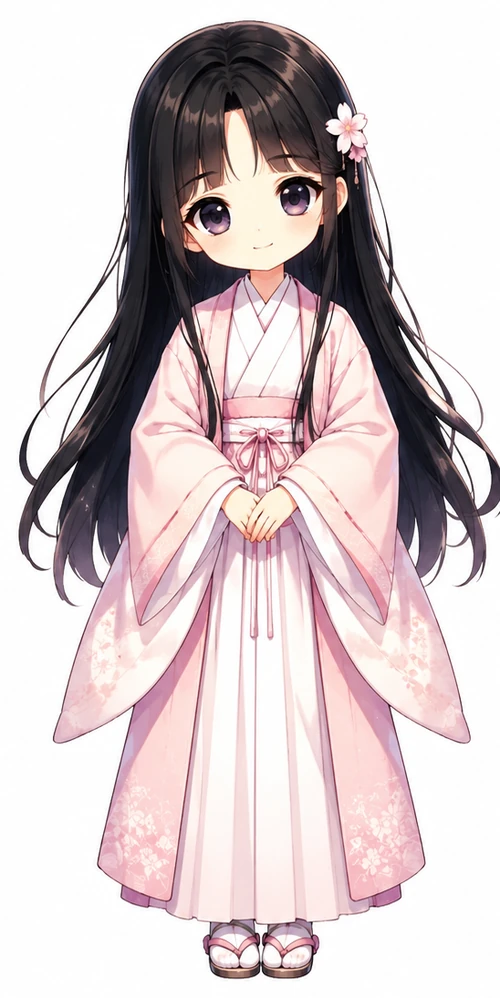
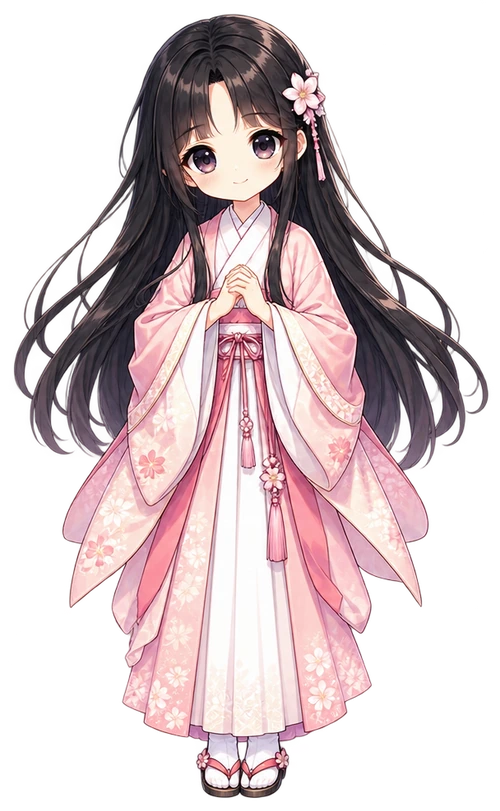
Add files via upload

diff --git a/script.js b/script.js
@@ -38,7 +38,7 @@ function getRowColorVars(difficulty) {
 }
 
 // PATTERNSはもう色を持たない。PATTERN_SOURCEをそのまま使う。
-//getRandomPatterns(PATTERN_SOURCE, PATTERN_SELECT_COUNT)
+// const PATTERNS = PATTERN_SOURCE;
 
 // ---------------------------------------------------------------------
 // 【問題データ】盤面の生成・正誤判定にだけ使う最小限のデータ。
@@ -68,8 +68,6 @@ const PATTERN_SOURCE = [
   { id: "ru-jido",     name: "受身・自発の助動詞「る」",   forms: ["れ", "れ", "る", "るる", "るれ", "れよ"] },
   { id: "sasu-shieki", name: "使役の助動詞「さす」",       forms: ["させ", "させ", "さす", "さする", "さすれ", "させよ"] },
 ];
-
-
 
 // ---------------------------------------------------------------------
 // 【解説データ】学習メモモーダルの表示にだけ使うデータ。パズルの正誤判定には一切関与しない。
@@ -213,8 +211,6 @@ const JODOUSHI_EXPLANATIONS = {
   },
 };
 
-
-
 // 問題データ(pattern)から解説データを引くヘルパー。
 // 将来モジュールが増えた場合は、ここで対象レジストリを切り替える形で拡張する想定。
 function getExplanation(pattern) {
@@ -345,16 +341,6 @@ function savePlayerData() {
   } catch (e) {
     console.error("[雅ラン] セーブデータの保存に失敗しました。", e);
   }
-}
-
-function resetPlayerData() {
-  localStorage.removeItem(SAVE_KEY);
-
-  playerData = createDefaultPlayerData();
-
-  renderCharacterHud();
-
-  showScreen("screen-character-select");
 }
 
 let playerData = createDefaultPlayerData();
@@ -492,7 +478,7 @@ function formatTime(totalSeconds) {
 // クラスの付け外しだけでなく、style.displayも直接書き換えることで
 // 「CSSの読み込みタイミングやクラス指定ミスで画面が重なって表示される」
 // 事故を確実に防ぐ（インラインstyleは外部CSSより優先されるため）。
-const SCREEN_IDS = ["screen-character-select", "screen-title", "screen-game", "screen-clear"];
+const SCREEN_IDS = ["screen-brand-title", "screen-character-select", "screen-title", "screen-game", "screen-clear"];
 
 function showScreen(activeId) {
   SCREEN_IDS.forEach((id) => {
@@ -513,7 +499,7 @@ function showScreen(activeId) {
   // 要件①②：ゲーム開始時（screen-game表示時）・タイトルへ戻った時（screen-title表示時）は、
   // 前の画面で出ていた完成メッセージ（活用表完成！など）を必ずリセットする。
   // ここに集約しておくことで、「戻る」ボタンがどこにあっても・今後増えても取りこぼさない。
-  if (activeId === "screen-title" || activeId === "screen-game") {
+  if (activeId === "screen-brand-title" || activeId === "screen-title" || activeId === "screen-game") {
     clearCompletionMessage();
   }
 }
@@ -608,7 +594,7 @@ function startGame(difficulty) {
   // PATTERNS（全助動詞データ）からランダムにPATTERN_SELECT_COUNT種類、重複なしで抽出する
   // ここが要件のコア部分：
   //   const selectedPatterns = getRandomPatterns(PATTERNS, 6);
-  const selectedPatterns =
+ const selectedPatterns =
   getRandomPatterns(PATTERN_SOURCE, PATTERN_SELECT_COUNT);
 
   state.difficulty = difficulty;
@@ -1393,14 +1379,25 @@ function spawnSakura() {
    ------------------------------------------------------------------------ */
 
 function init() {
-  // ① 起動時はプレイヤーデータを読み込み、キャラクター選択済みかどうかで
-  //    最初に見せる画面を振り分ける（選択済みならキャラクター選択画面はスキップする）。
-  //    HTML側のclass指定に頼らず、ここで明示的に状態を確定させる。
+  // ①②③ 新しい画面遷移：
+  //   起動 → ブランドタイトル画面（常に最初に表示）
+  //        → 「はじめる」を押す
+  //          → 未選択なら：キャラクター選択（初回のみ）→ 通常のタイトル画面（難易度選択）
+  //          → 選択済みなら：そのまま通常のタイトル画面（難易度選択）
+  // キャラクター選択自体は「はじめる」を押した後に限り、未選択の場合だけスキップせず表示する。
   playerData = loadPlayerData();
   renderCharacterHud();
-  showScreen(playerData.characterType ? "screen-title" : "screen-character-select");
+  showScreen("screen-brand-title");
 
   spawnSakura();
+
+  // ブランドタイトル画面：「はじめる」ボタン
+  const startBtn = document.getElementById("btn-start");
+  if (startBtn) {
+    startBtn.addEventListener("click", () => {
+      showScreen(playerData.characterType ? "screen-title" : "screen-character-select");
+    });
+  }
 
   // ⓪ キャラクター選択カード：選んだ瞬間に保存し、以降ずっとそのキャラクターで表示される
   const characterCards = document.querySelectorAll(".character-select-card");
@@ -1479,17 +1476,6 @@ function init() {
       closeLevelUpOverlay();
     });
   }
-}
-
-// ⑧ データリセット
-const resetBtn = document.getElementById("btn-reset-data");
-
-if (resetBtn) {
-  resetBtn.addEventListener("click", () => {
-    if (confirm("セーブデータを削除しますか？")) {
-      resetPlayerData();
-    }
-  });
 }
 
 // スクリプトを</body>直前（DOM要素の後）に配置しているため、

diff --git a/index.html b/index.html
@@ -26,7 +26,7 @@
 <!-- ============================== -->
 <div id="character-hud" class="character-hud" aria-hidden="true">
   <div id="character-portrait" class="character-portrait" data-character="hime" data-expression="normal">
-    <img id="character-portrait-img" class="cp-img" src="character-hime.webp" alt="">
+    <img id="character-portrait-img" class="cp-img" src="assets/character-hime-face.webp" alt="">
     <div class="cp-sparkles" aria-hidden="true"></div>
   </div>
 
@@ -45,6 +45,20 @@
 <div id="app">
 
   <!-- ============================== -->
+  <!-- ブランドタイトル画面（起動時に必ず最初に表示） -->
+  <!-- ============================== -->
+  <section id="screen-brand-title" class="screen is-active">
+    <div class="title-panel washi-panel">
+      <p class="eyebrow">夜の平安 古典学習</p>
+      <h1 class="game-logo">雅<span>ラン</span></h1>
+      <p class="game-tagline">古文助動詞パズル</p>
+      <p class="game-sub">散らばった活用語を並べ替えて、古文助動詞の活用表を月明かりの下で完成させましょう。解けば解くほど、あなたの分身が宮中で出世していきます。</p>
+
+      <button id="btn-start" class="primary-btn start-btn">はじめる</button>
+    </div>
+  </section>
+
+  <!-- ============================== -->
   <!-- ⓪ キャラクター選択画面（初回のみ／未選択時のみ表示） -->
   <!-- ============================== -->
   <section id="screen-character-select" class="screen">
@@ -56,14 +70,14 @@
       <div class="character-select-grid">
         <button class="character-select-card" data-character="hime">
           <span class="character-select-portrait" data-character-preview="hime" aria-hidden="true">
-            <img src="character-hime.webp" alt="">
+            <img src="assets/character-hime.webp" alt="">
           </span>
           <span class="character-select-name">姫</span>
           <span class="character-select-desc">雅やかに、着実に出世する</span>
         </button>
         <button class="character-select-card" data-character="kokushi">
           <span class="character-select-portrait" data-character-preview="kokushi" aria-hidden="true">
-            <img src="character-kokushi.webp" alt="">
+            <img src="assets/character-kokushi.webp" alt="">
           </span>
           <span class="character-select-name">貴公子</span>
           <span class="character-select-desc">凛として、宮中を歩む</span>
@@ -75,13 +89,12 @@
   </section>
 
   <!-- ============================== -->
-  <!-- ① タイトル画面（難易度選択）      -->
+  <!-- ① タイトル画面（通常のタイトル画面／難易度選択）      -->
   <!-- ============================== -->
   <section id="screen-title" class="screen">
     <div class="title-panel washi-panel">
-      <p class="eyebrow">夜の平安 古典学習</p>
-      <h1 class="game-logo">雅<span>ラン</span></h1>
-      <p class="game-sub">散らばった活用語を並べ替えて、古文助動詞の活用表を月明かりの下で完成させましょう。</p>
+      <p class="eyebrow">修行の間</p>
+      <h2 class="mode-select-title">難易度を選ぶ</h2>
 
       <div class="difficulty-select">
         <button class="diff-btn" data-difficulty="beginner">
@@ -97,10 +110,6 @@
           <span class="diff-desc">色ヒントなし・ダミーマス混入</span>
         </button>
       </div>
-
-      <button id="btn-reset-data" class="menu-btn">
-        データリセット
-      </button>
 
       <p class="rule-hint">マスをタップして2つ選ぶと入れ替わります。指で直接ドラッグしての入れ替えにも対応。</p>
     </div>
@@ -230,7 +239,7 @@
 <div id="levelup-modal" class="modal-overlay">
   <div class="levelup-card">
     <div id="levelup-portrait" class="character-portrait levelup-portrait" data-character="hime" data-expression="celebrate">
-      <img id="levelup-portrait-img" class="cp-img" src="character-hime.webp" alt="">
+      <img id="levelup-portrait-img" class="cp-img" src="assets/character-hime.webp" alt="">
       <div class="cp-sparkles" aria-hidden="true"></div>
     </div>
 

diff --git a/style.css b/style.css
@@ -275,11 +275,35 @@ button{ font-family: inherit; }
 }
 .game-logo span{ color: var(--vermillion); }
 
+.game-tagline{
+  font-family: "Shippori Mincho", serif;
+  font-size: 0.92rem;
+  letter-spacing: 0.12em;
+  color: var(--indigo);
+  margin: 0 0 14px;
+}
+
 .game-sub{
   color: var(--ink-soft);
   font-size: 0.88rem;
   line-height:1.8;
   margin: 0 0 28px;
+}
+
+/* ブランドタイトル画面の「はじめる」ボタン：主導線なので少し大きめ・目立たせる */
+.start-btn{
+  font-size: 1.05rem;
+  padding: 15px 46px;
+  letter-spacing: 0.2em;
+}
+
+/* 通常のタイトル画面（難易度選択）の見出し。ブランド画面より控えめなサイズにする */
+.mode-select-title{
+  font-family: "Shippori Mincho", serif;
+  font-weight: 700;
+  font-size: clamp(1.3rem, 5vw, 1.6rem);
+  margin: 0 0 22px;
+  color: var(--ink);
 }
 
 .difficulty-select{
@@ -683,10 +707,12 @@ button{ font-family: inherit; }
   flex-direction: column;
   align-items: center;
   gap: 8px;
-  background: rgba(255,255,255,0.35);
+  background:
+    repeating-linear-gradient(45deg, transparent 0px, transparent 9px, rgba(122,106,74,0.05) 9px, rgba(122,106,74,0.05) 10px),
+    rgba(255,255,255,0.32);
   border: 1px solid var(--line);
   border-radius: 14px;
-  padding: 16px 10px;
+  padding: 16px 10px 14px;
   cursor: pointer;
   transition: transform 0.15s ease, box-shadow 0.15s ease, background 0.15s ease;
 }
@@ -695,16 +721,14 @@ button{ font-family: inherit; }
   box-shadow: 0 8px 20px -12px rgba(42,33,22,0.5);
   transform: translateY(-2px);
 }
+/* キャラクター立ち絵は透過PNG/WebPが前提。白い矩形の枠は置かず、
+   和紙パネルの上に直接立っているように、柔らかい落ち影だけで存在感を出す。 */
 .character-select-portrait{
-  width: 108px;
-  height: 148px;
+  width: 128px;
+  height: 176px;
   display: flex;
   align-items: flex-end;
   justify-content: center;
-  background: radial-gradient(circle at 50% 30%, rgba(255,255,255,0.5), rgba(255,255,255,0) 70%);
-  border-radius: 16px 16px 10px 10px;
-  border: 2px solid var(--gold);
-  overflow: hidden;
   position: relative;
 }
 .character-select-portrait img{
@@ -713,6 +737,7 @@ button{ font-family: inherit; }
   object-fit: contain;
   object-position: bottom center;
   display: block;
+  filter: drop-shadow(0 8px 10px rgba(42,33,22,0.28));
 }
 .character-select-name{
   font-family: "Shippori Mincho", serif;
@@ -732,22 +757,23 @@ button{ font-family: inherit; }
   object-fit: contain;
   object-position: bottom center;
   display: block;
-  filter: none;
+  /* 透過画像を和紙・夜空の上に直接置くため、常に柔らかい落ち影で存在感を出す */
+  filter: drop-shadow(0 4px 7px rgba(20,14,8,0.32));
   transition: filter 0.2s ease;
 }
 
 /* 通常時：穏やかな表情（＝アニメーションなしの静止状態） */
 .character-portrait[data-expression="troubled"] .cp-img{
   animation: cpShake 0.4s ease;
-  filter: saturate(0.75) brightness(0.97);
+  filter: drop-shadow(0 4px 7px rgba(20,14,8,0.32)) saturate(0.75) brightness(0.97);
 }
 .character-portrait[data-expression="happy"] .cp-img{
   animation: cpBounce 0.5s ease;
-  filter: brightness(1.05) saturate(1.08);
+  filter: drop-shadow(0 4px 7px rgba(20,14,8,0.32)) brightness(1.05) saturate(1.08);
 }
 .character-portrait[data-expression="celebrate"] .cp-img{
   animation: cpCelebrate 0.6s ease;
-  filter: brightness(1.1) saturate(1.15);
+  filter: drop-shadow(0 6px 12px rgba(20,14,8,0.38)) brightness(1.1) saturate(1.15);
 }
 @keyframes cpShake{
   0%, 100%{ transform: translateX(0); }
